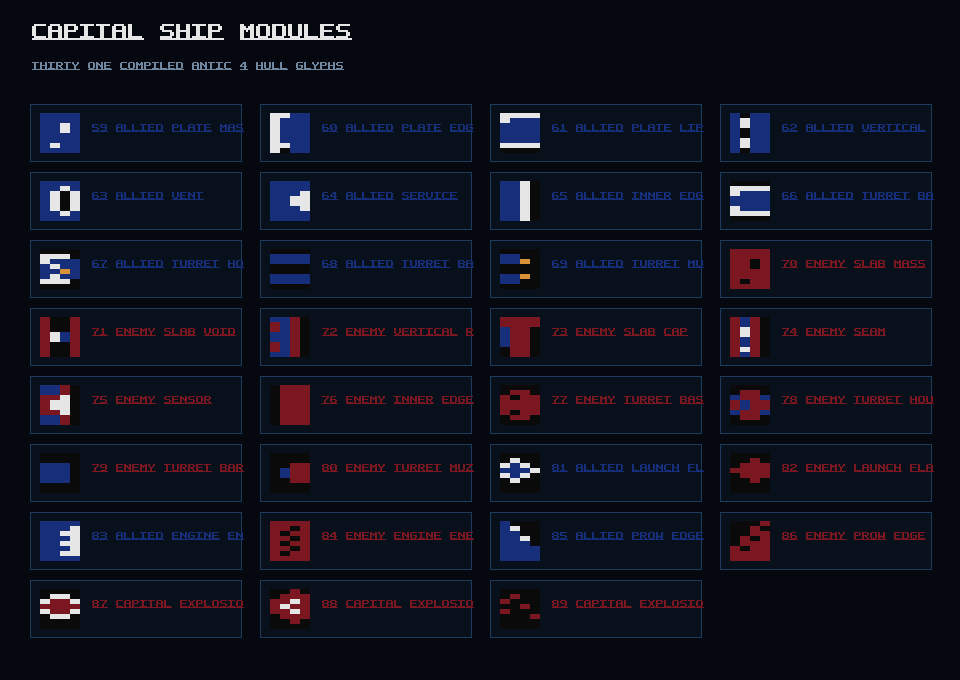
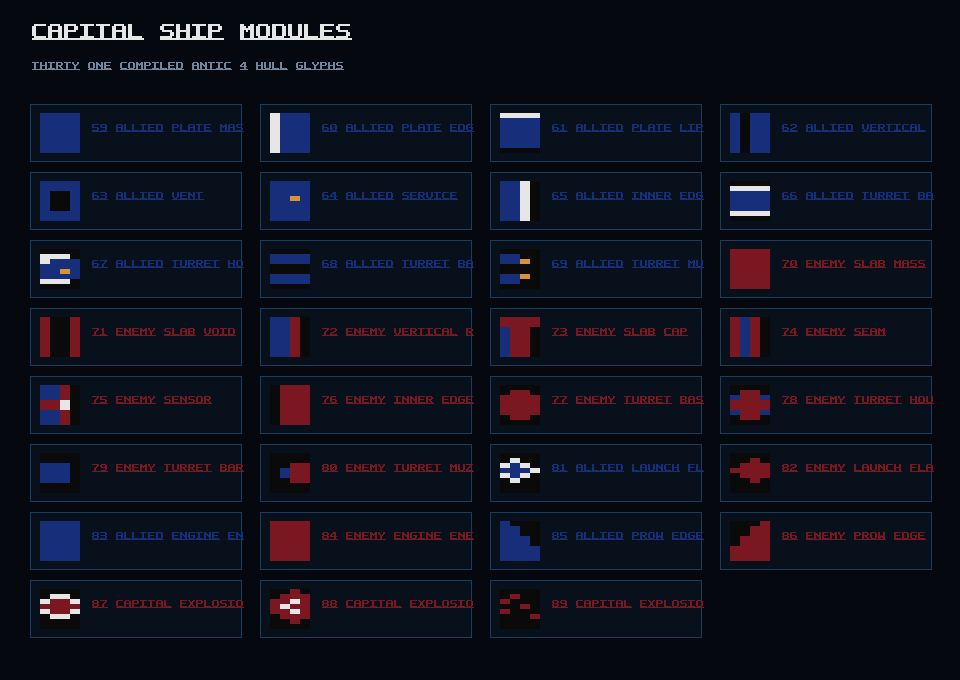
fix(graphics): remove capital hull panel artifacts

diff --git a/docs/memory-map.md b/docs/memory-map.md
@@ -44,12 +44,12 @@ source-owned metadata/fill required by sector alignment, not reserved capacity.
 | --- | ---: | --- |
 | `$2000-$21C0` | 449 B | raw bootstrap prefix |
 | `$21C1-$2661` | 1,185 B | stage-2 SIO/CRC/manifest overlay; later restored resident bytes replace it |
-| `$2662-$4011` | 6,576 B | packed 7,743-byte resident suffix; staged at `$8100-$9AAF`, restored to `$21C1-$3FFF` |
-| `$4012-$46FC` | 1,771 B | packed 2,232-byte starfield/music runtime; staged at `$7810-$7EFA`, expands to `$552A-$5DE1` |
-| `$46FD-$47CB` | 207 B | A2 kernel source; staged at `$7F10-$7FDE`, copied to `$9000-$90CE` |
-| `$47CC-$51BA` | 2,543 B | packed 3,189-byte entity/effect/H3.1/H4.1 runtime; staged at `$5300-$5CEE`, expands to `$9100-$9D74` |
-| `$51BB-$51BE` | 4 B | source-owned `DFB1` trailer |
-| `$51BF-$51FF` | 65 B | dynamic `DFI2` initial-sector envelope; remains below ENTITY_CODE staging at `$5300` |
+| `$2662-$3FE0` | 6,527 B | packed 7,743-byte resident suffix; staged at `$8100-$997E`, restored to `$21C1-$3FFF` |
+| `$3FE1-$46CB` | 1,771 B | packed 2,232-byte starfield/music runtime; staged at `$7810-$7EFA`, expands to `$552A-$5DE1` |
+| `$46CC-$479A` | 207 B | A2 kernel source; staged at `$7F10-$7FDE`, copied to `$9000-$90CE` |
+| `$479B-$5189` | 2,543 B | packed 3,189-byte entity/effect/H3.1/H4.1 runtime; staged at `$5300-$5CEE`, expands to `$9100-$9D74` |
+| `$518A-$518D` | 4 B | source-owned `DFB1` trailer |
+| `$518E-$51FF` | 114 B | dynamic `DFI2` initial-sector envelope; remains below ENTITY_CODE staging at `$5300` |
 | ATR sectors 101-145 | 5,760 B | external BROADSIDE chunk: 5,661 B LZ plus `DFC2` footer/fill; stage `$8100-$977F`, final `$5E10-$780F` |
 
 The `DFMC` v1 manifest is 30 B for the current one record and reserves 142 B
@@ -133,8 +133,8 @@ charset, loader data, or staging buffer uses `$A000-$BFFF`.
 
 ## Boot-only ENTITY_CODE staging lifecycle
 
-The packed initial sources end exclusively at `$51BB`. ENTITY_CODE staging is
-`$5300-$5CEE` (2,543 B), so the pre-staging margin is 325 B. Its end-exclusive
+The packed initial sources end exclusively at `$518A`. ENTITY_CODE staging is
+`$5300-$5CEE` (2,543 B), so the pre-staging margin is 374 B. Its end-exclusive
 address `$5CEF` is 289 B below BROADSIDE at `$5E10`. The packed stream is copied
 only after the initial block is resident, expanded to `$9100-$9D74`, and then
 released. The later starfield destination `$552A-$5DE1` overlaps the released

diff --git a/docs/architecture.md b/docs/architecture.md
@@ -78,10 +78,10 @@ Cold staging also copies:
 - the 207-byte A2 kernel through `$7F10-$7FDE` to `$9000-$90CE`;
 - packed entity/effect/frontend code through boot-only staging at `$5300-$5CEE`
   to the resident `$9100-$9FFF` range. The staging write begins only after the
-  initial packed source ending at `$51BA` has been consumed. Its end-exclusive
+  initial packed source ending at `$5189` has been consumed. Its end-exclusive
   `$5CEF` remains 289 bytes below the BROADSIDE destination at `$5E10`.
 
-The initial packed sources end exclusively at `$51BB`, leaving 325 bytes before
+The initial packed sources end exclusively at `$518A`, leaving 374 bytes before
 the `$5300` staging start. Startup copies ENTITY_CODE there, expands the stream
 to its current live `$9100-$9D74` range, and immediately releases the staging
 range. `unpack_loader_bitmap` may then overwrite it while preparing the loader;

diff --git a/docs/hardware-testing.md b/docs/hardware-testing.md
@@ -13,7 +13,7 @@ Before manual testing, run the evidence phases in order:
 - [ ] `npm run build` binds the complete report to the same boot BIN, XEX, and
       ATR hashes.
 - [ ] `npm run verify` accepts the final-bound manifest and report hash.
-- [ ] The manifest reports ENTITY_CODE staging `$5300-$5CEE`, 325 B before it,
+- [ ] The manifest reports ENTITY_CODE staging `$5300-$5CEE`, 374 B before it,
       and 289 B before BROADSIDE; startup consumes it before loader bitmap and
       starfield expansion reuse the same low-memory range.
 - [ ] A second unchanged full trace has replay fingerprint
